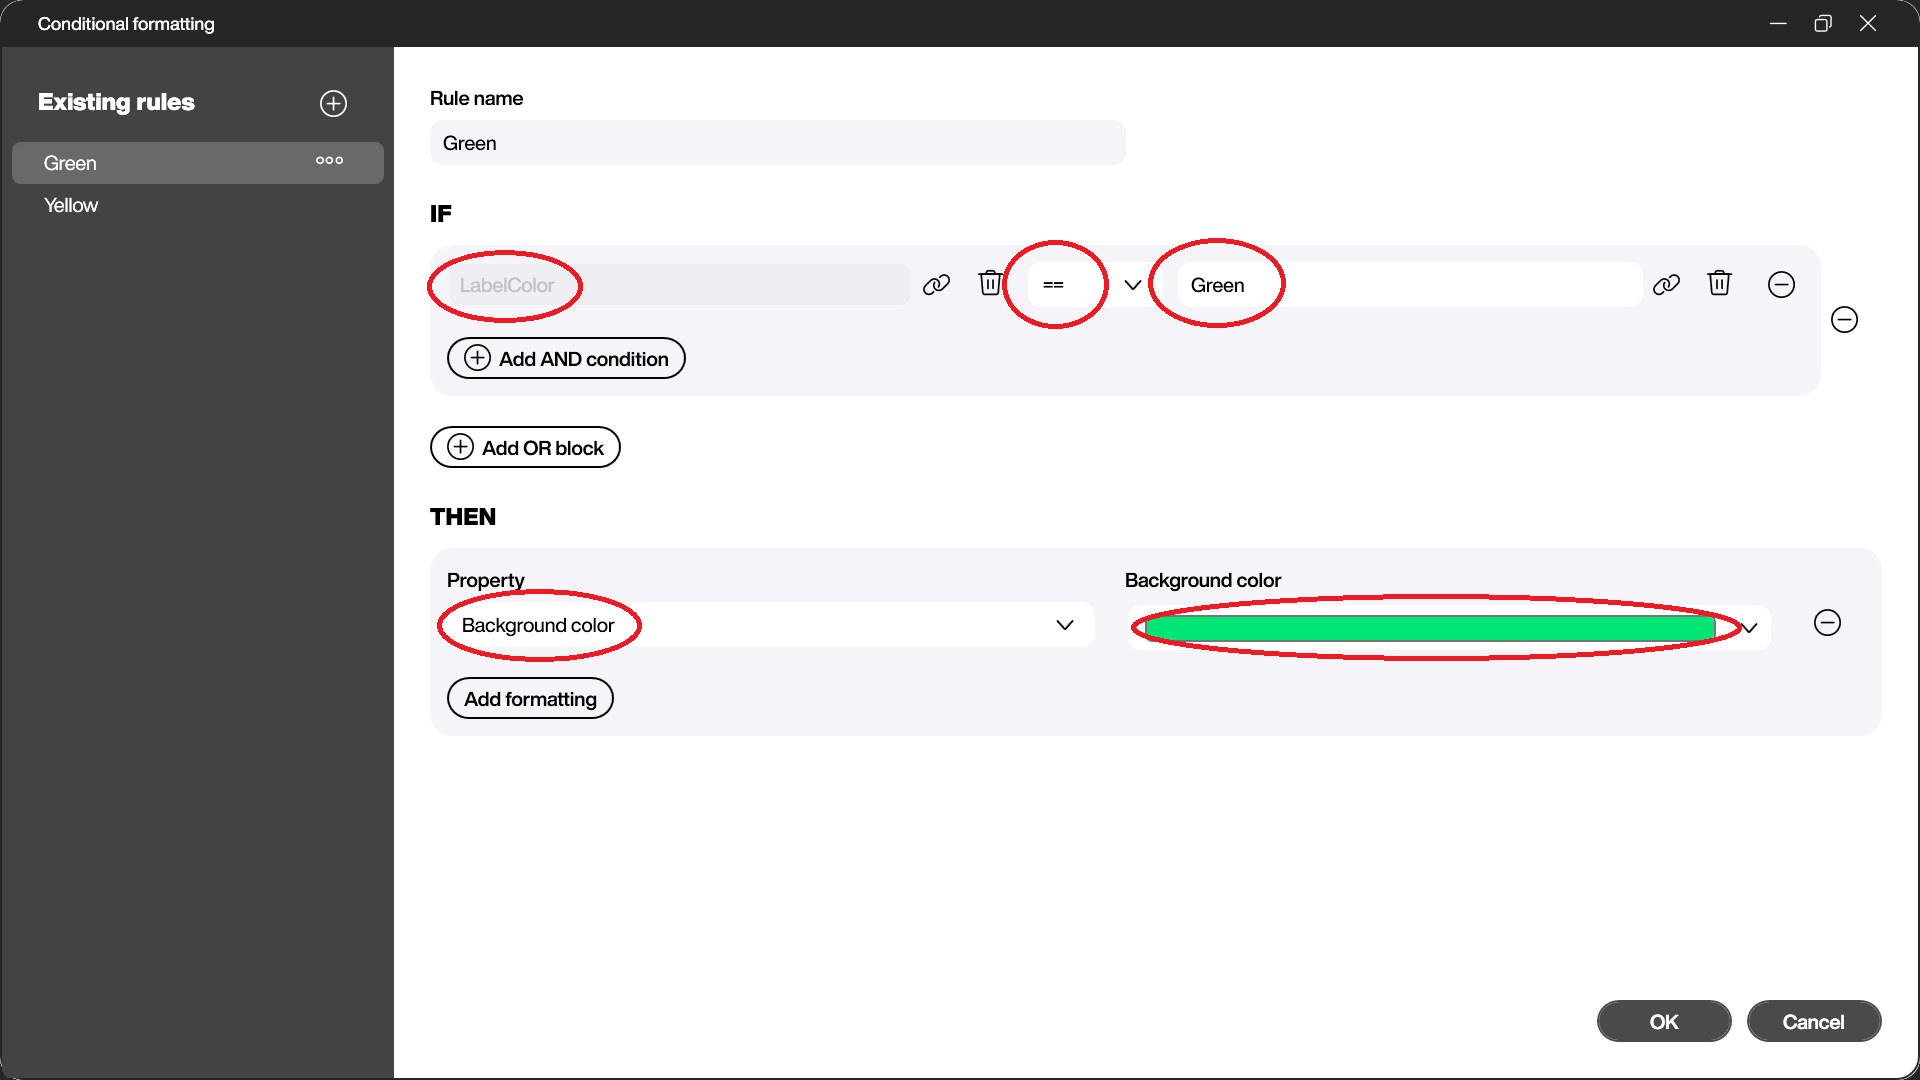
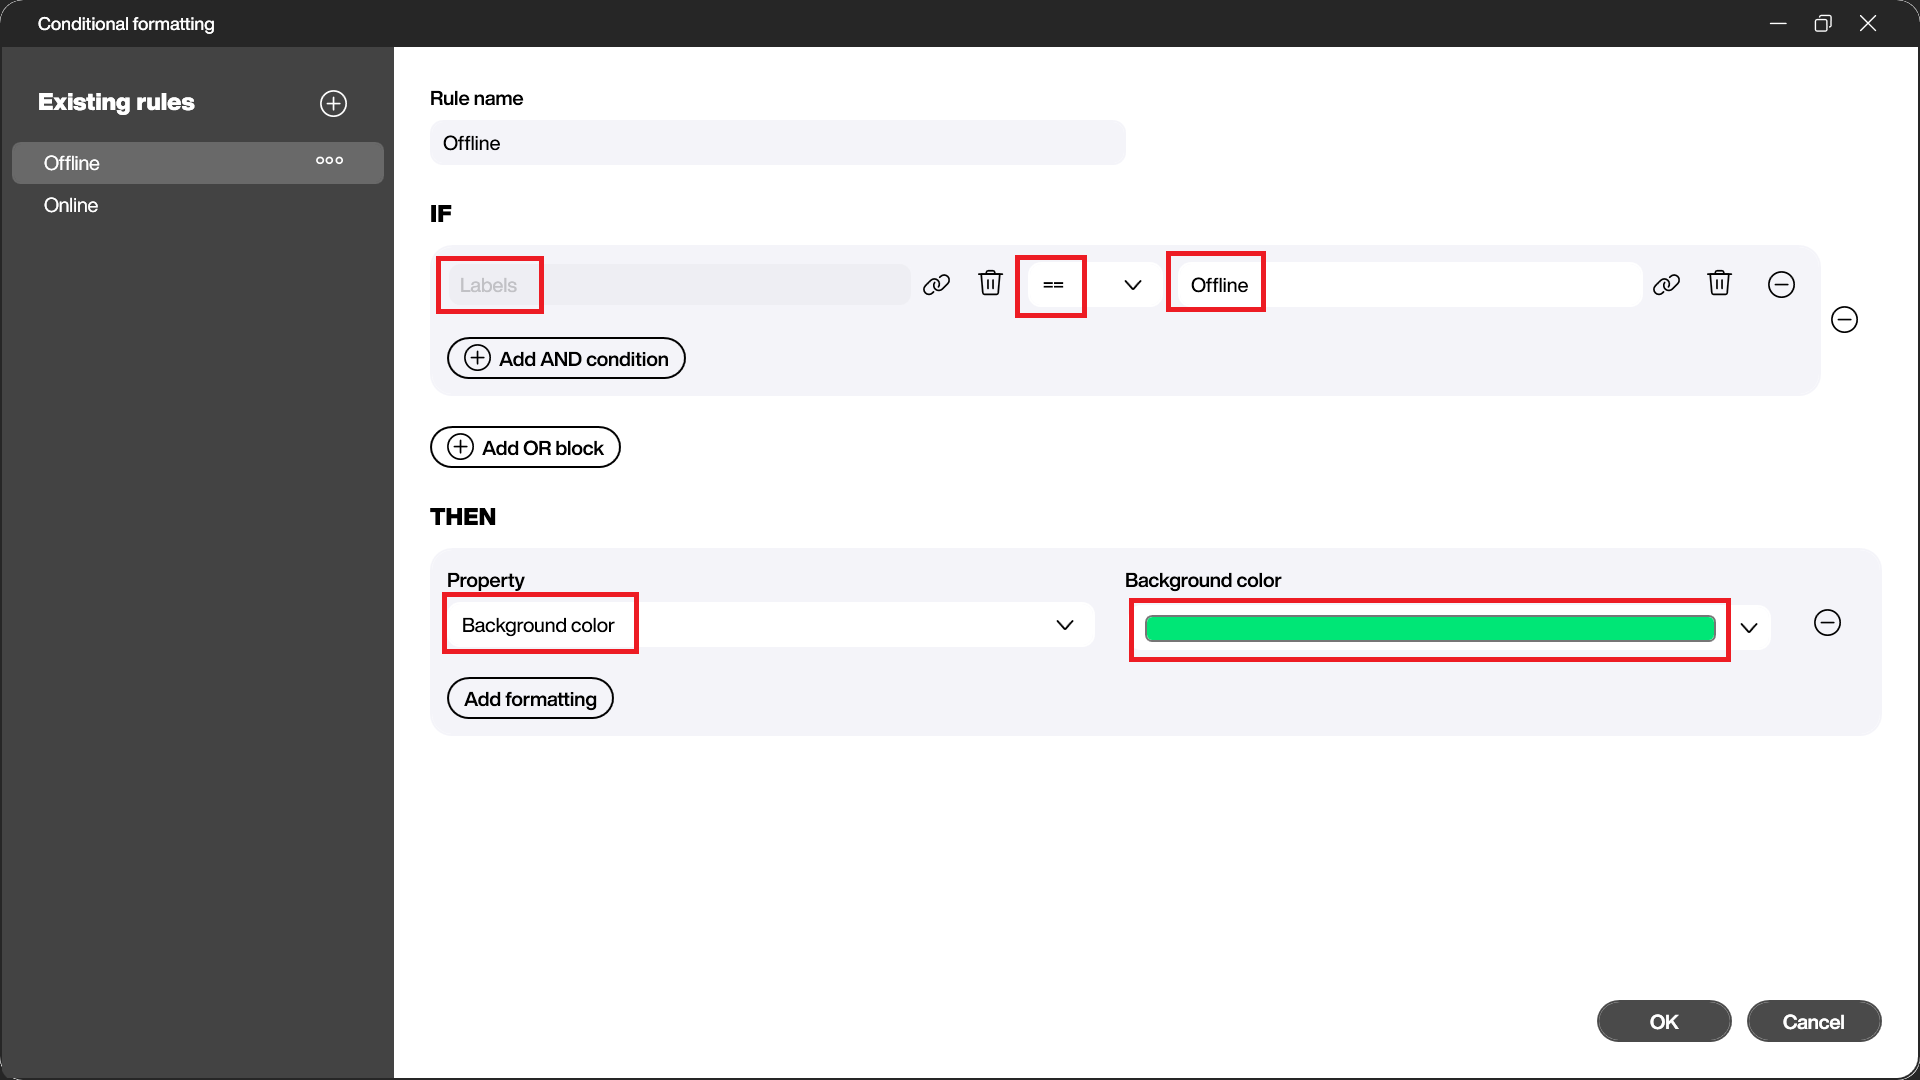
Backup

diff --git a/_posts/2023-10-04-Card-Caravan-Bringing-Peakboard-and-Trello-together.md b/_posts/2023-10-04-Card-Caravan-Bringing-Peakboard-and-Trello-together.md
@@ -93,7 +93,11 @@ Let's take a look at both these things.
 
 ### Label color indicator
 
-SKIP FOR NOW
+Do make our color indicator functional, we will add conditional formatting to the ellipse control.
+
+![image](/assets/2023-10-04/075.png)
+
+We compare the card's label is equal to a value that's associated with a color. If it is, then we change the color of the indicator. 
 
 ![image](/assets/2023-10-04/080.png)
 
@@ -175,4 +179,3 @@ Here is the script for the *Create Card* button. It runs the `addcard` function,
 Our cancel button has a simple tapped event that just switches the Peakboard Box back to the main screen.
 
 ![image](/assets/2023-10-04/160.png)
-
